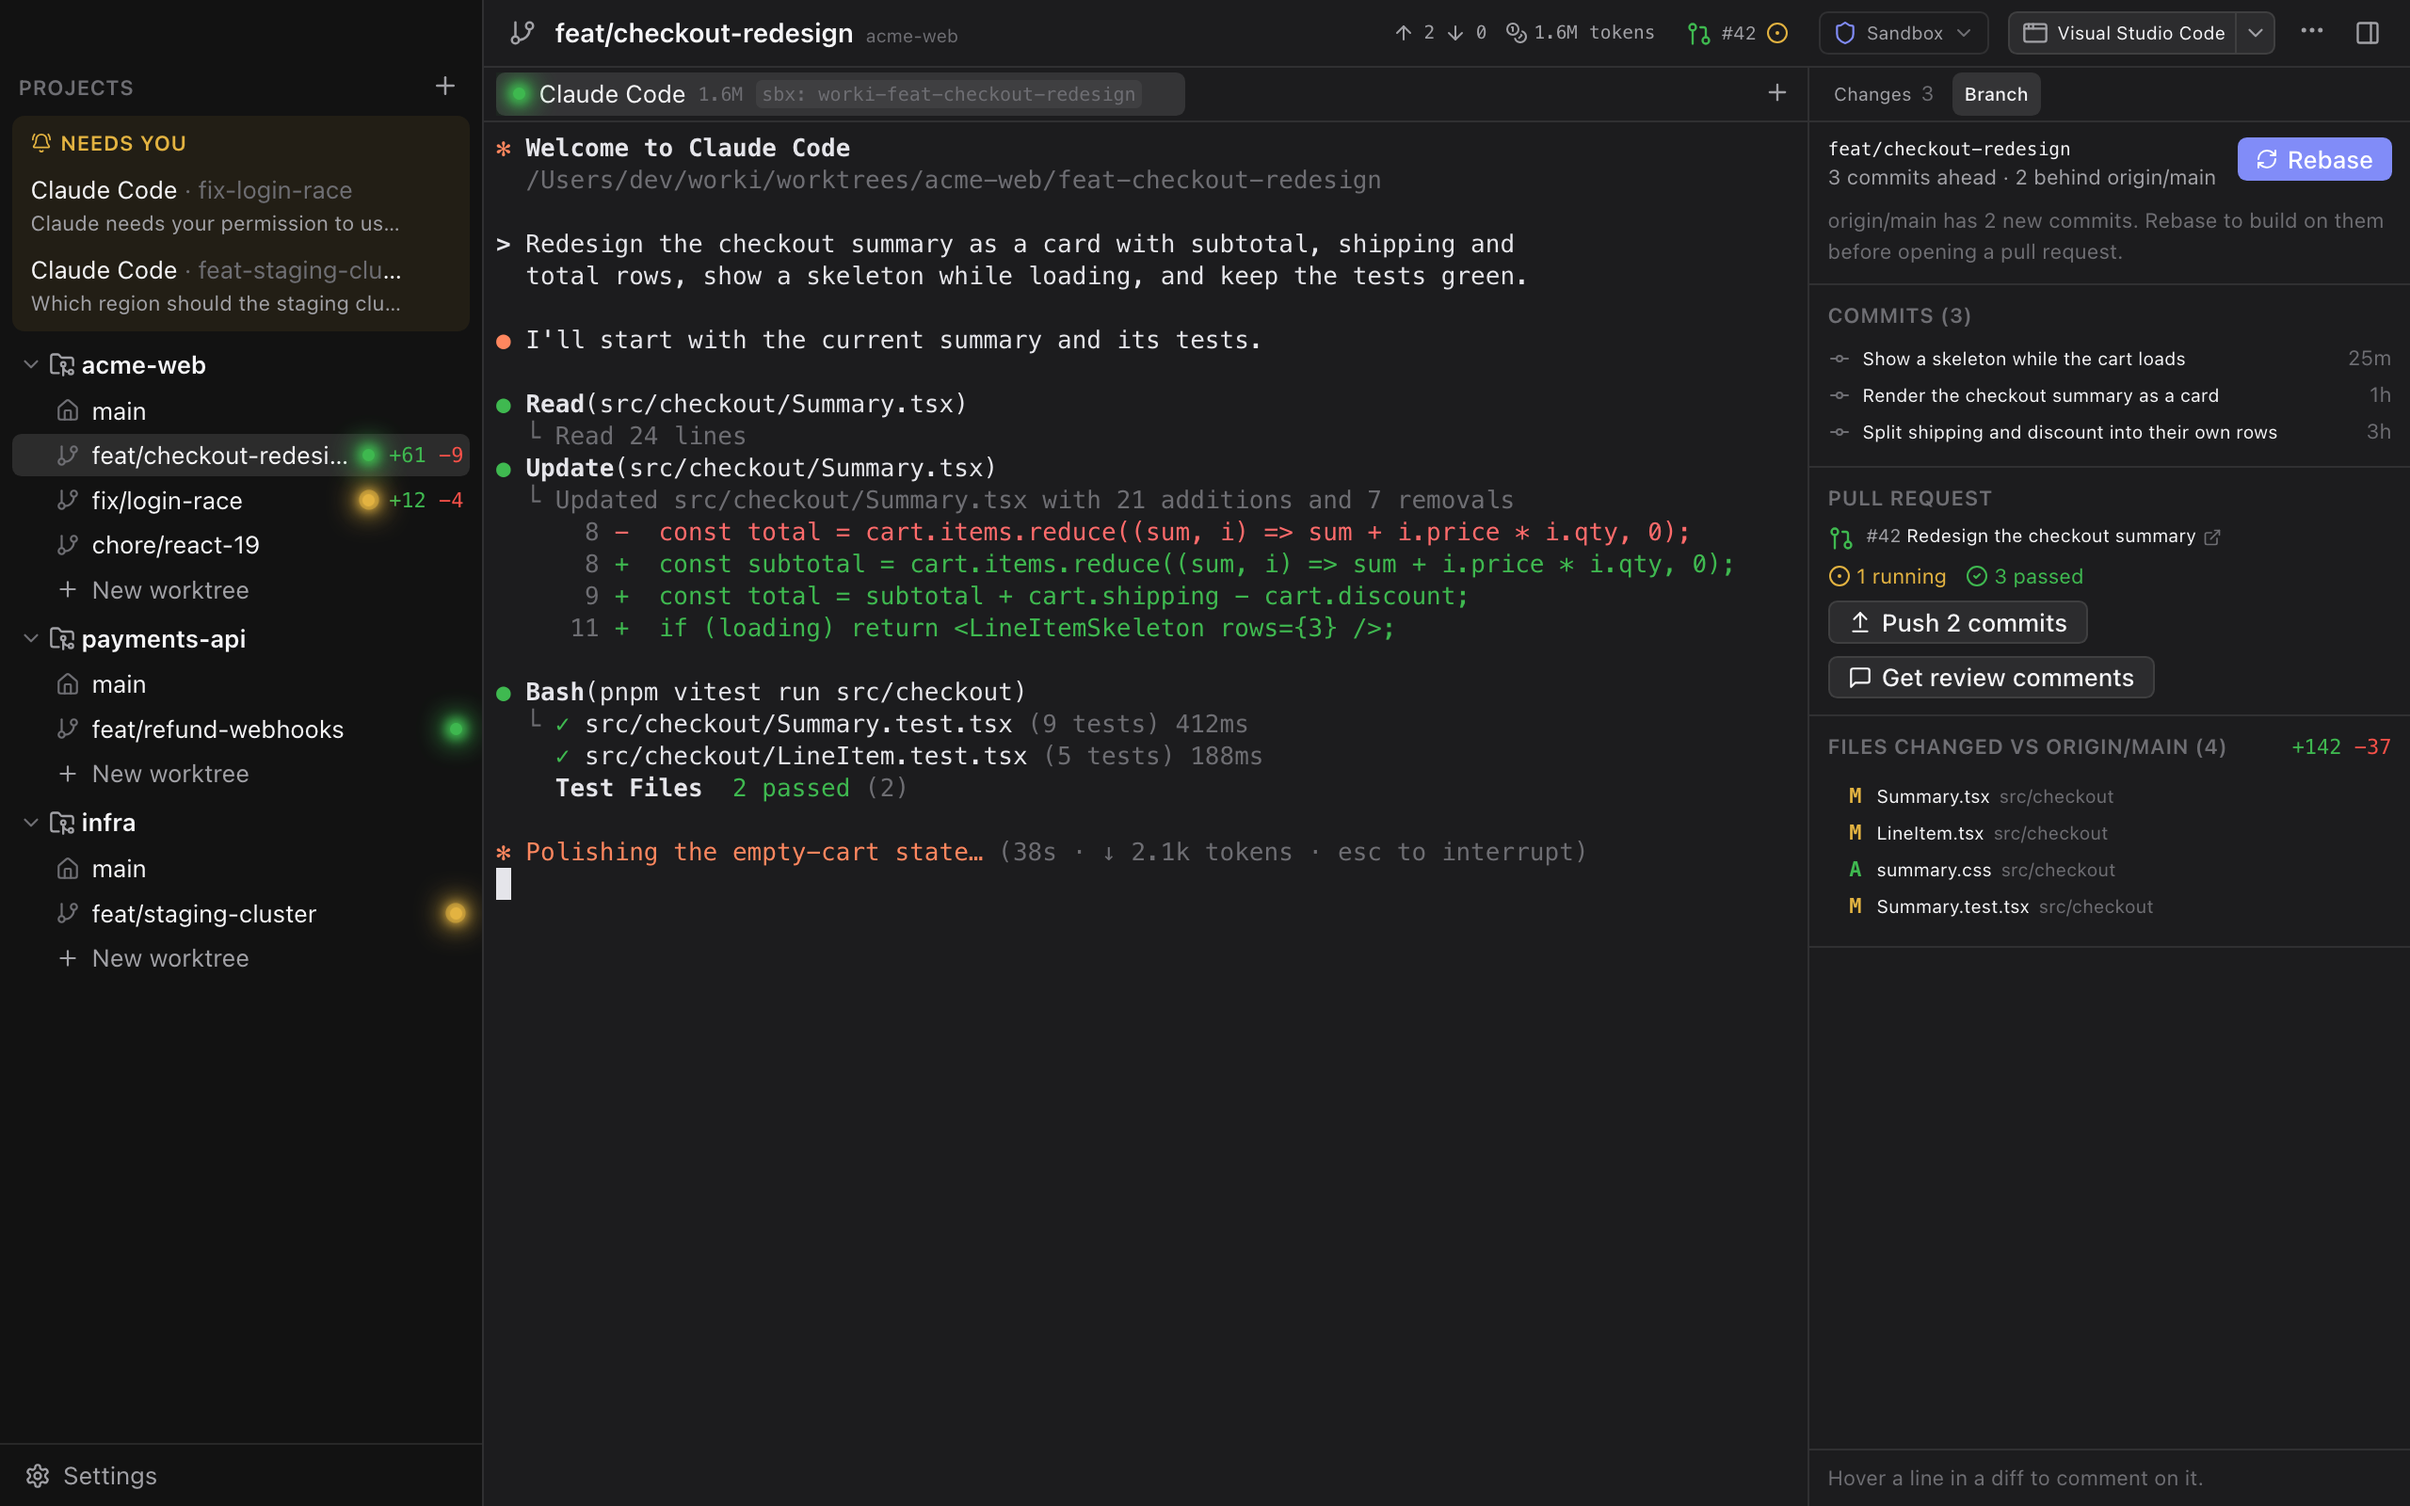
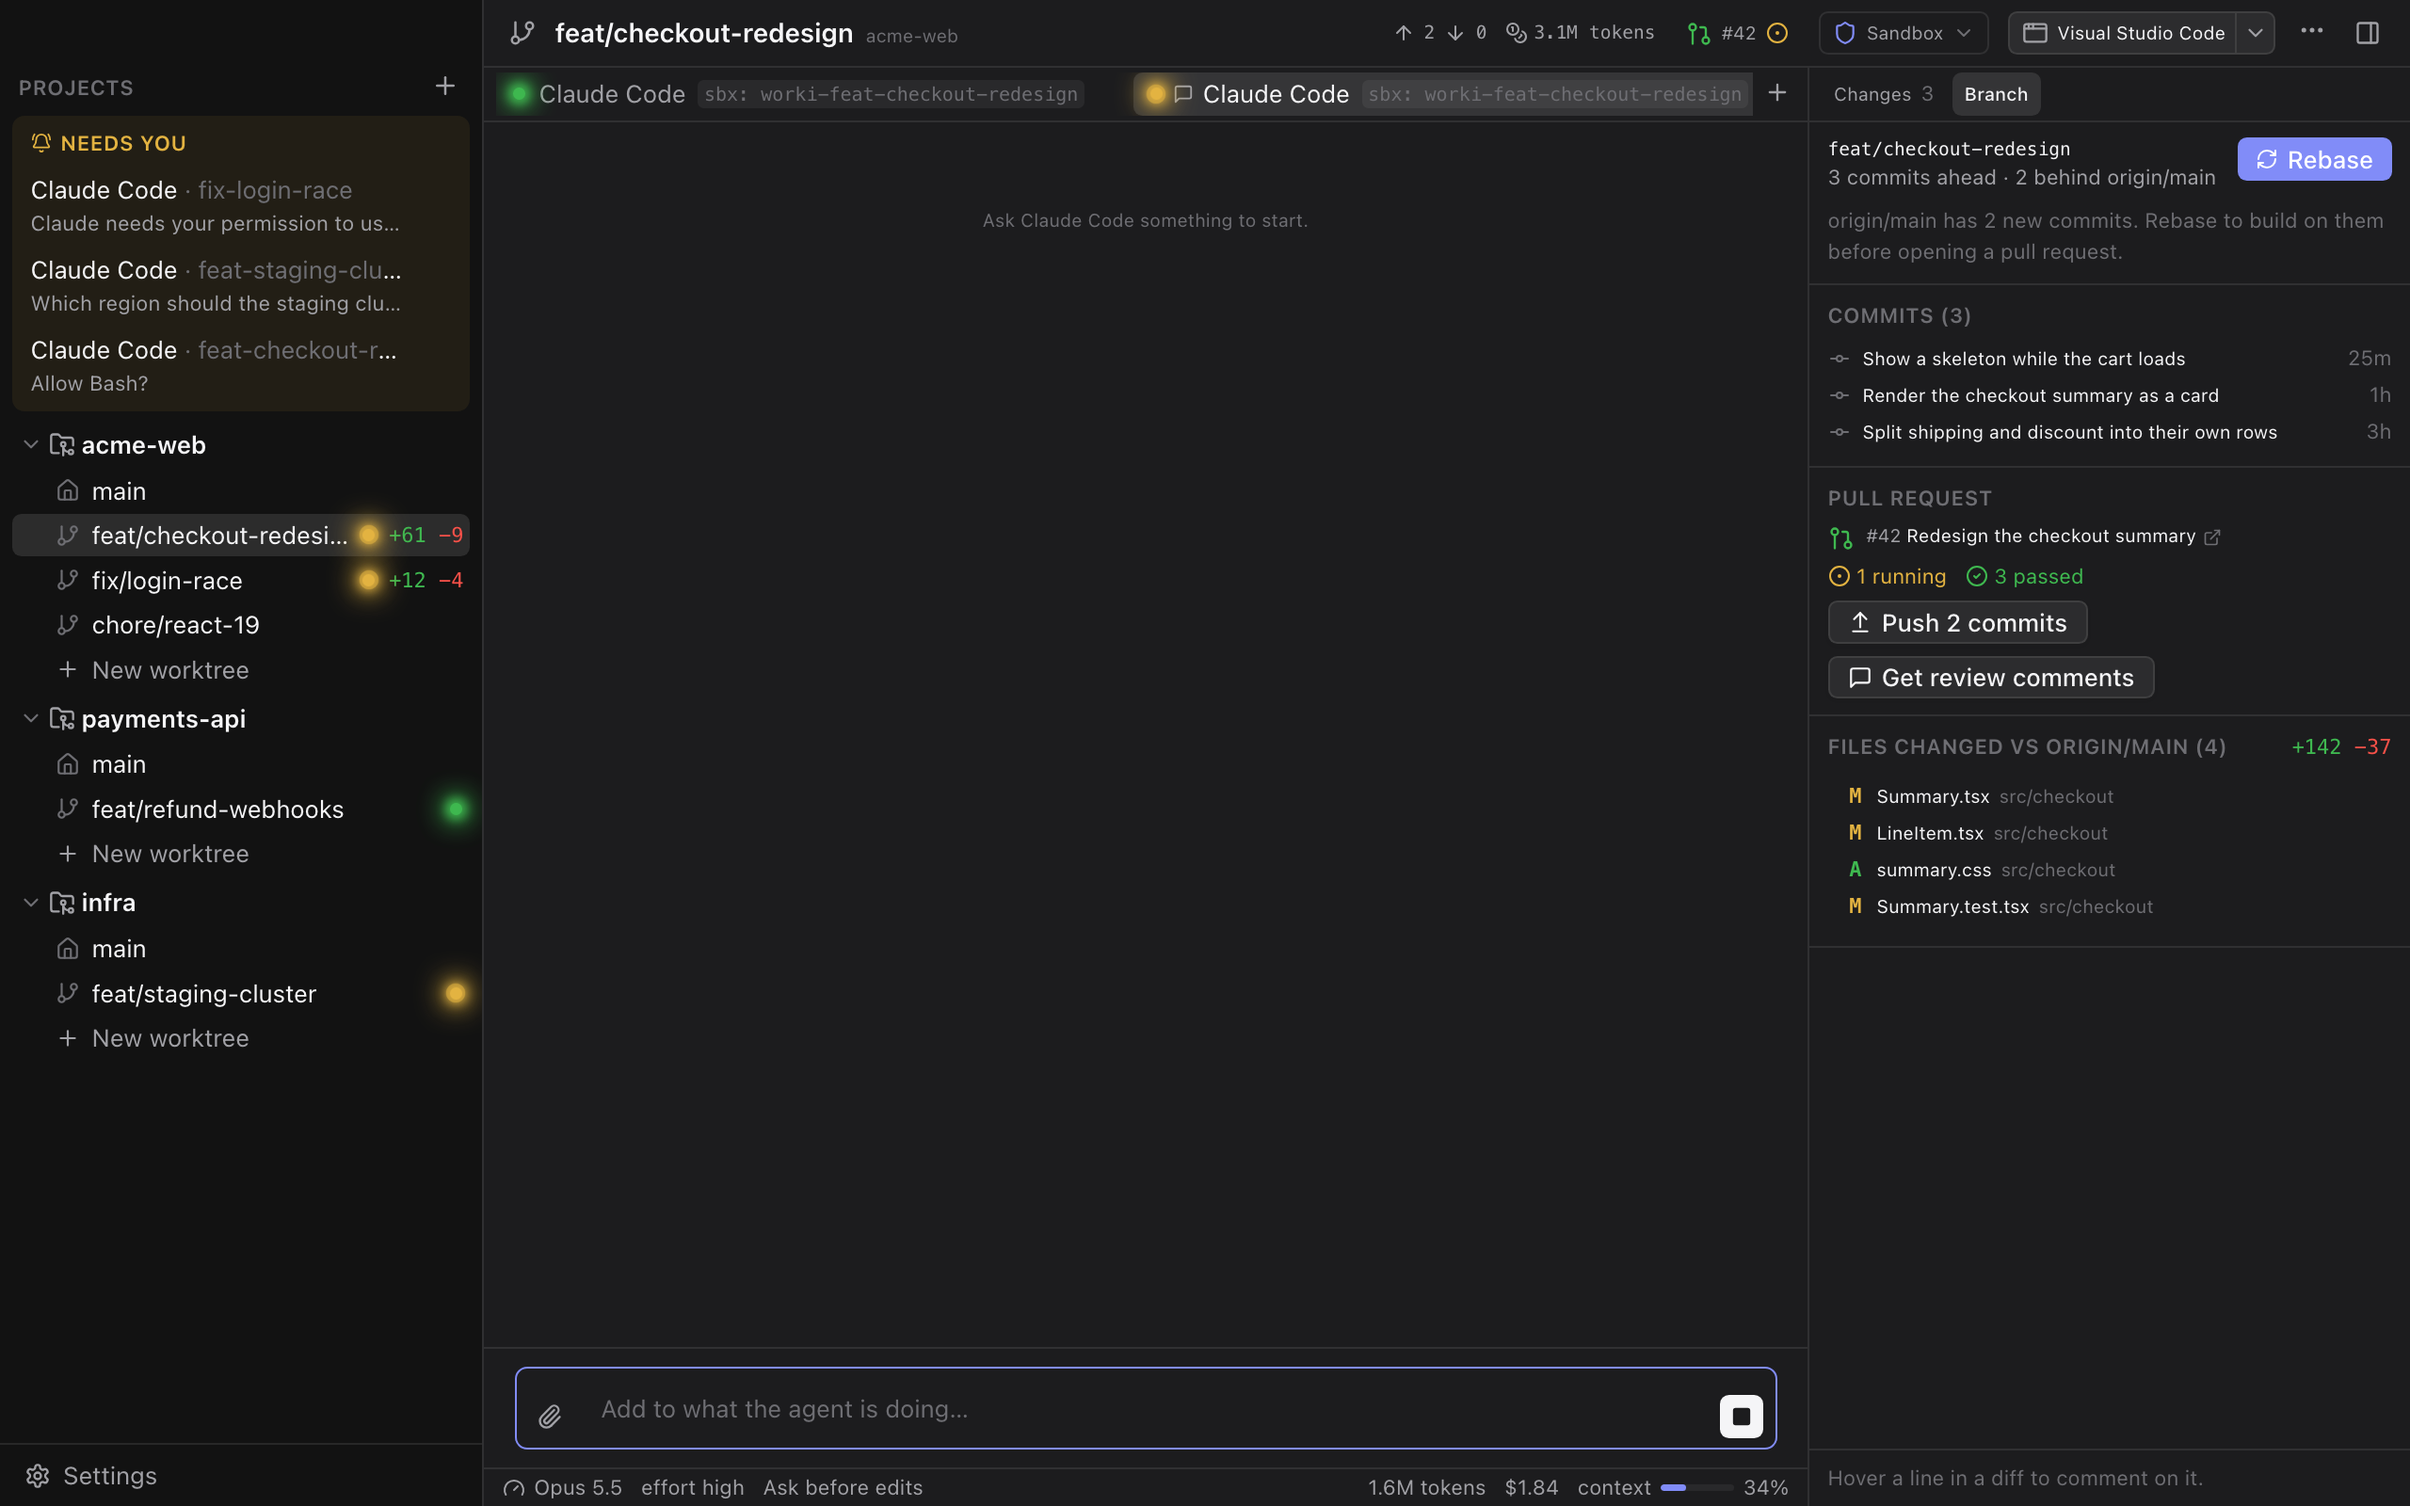
Describe the chat in the README
Adds a "Chat or terminal" section with a chat screenshot scene, and renders
all screenshots again for the changed session tabs.

diff --git a/README.md b/README.md
@@ -67,6 +67,28 @@ checks it and cleans it up again.
   <img src="docs/screenshots/settings.png" alt="Isolation settings with checks and agents installed in the sandbox" width="900">
 </p>
 
+## Chat or terminal
+
+<p align="center">
+  <img src="docs/screenshots/chat.png" alt="Claude Code as a chat: a diagram, a chart and a permission request" width="900">
+</p>
+
+Run Claude Code in its terminal, or as a chat that worki draws itself:
+
+- **The conversation, readable.** Answers stream in as Markdown, tool calls fold into one line
+  each and open to show the command, the diff or the output.
+- **Questions as buttons.** Permission requests get Allow and Deny, the agent's questions their
+  options, and Esc stops a turn.
+- **Switch while you talk.** Model, effort and permission mode sit under the message box.
+- **Attach files and paste screenshots.** worki reads them itself, so they reach agents in any
+  isolation.
+- **Visuals in place.** Diagrams (Mermaid), drawings (SVG) and charts (HTML, in a sandboxed frame)
+  match worki's theme, open full-window with zoom, and save as SVG, PNG or HTML.
+- **Picks up where you left off.** Chats reopen with their history when worki starts.
+
+Choose the default under Settings › General; the **+** menu offers both. Codex runs in a terminal
+for now.
+
 ## From task to pull request
 
 <p align="center">
